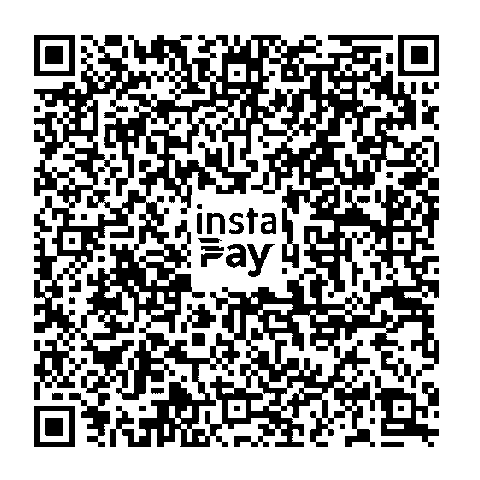
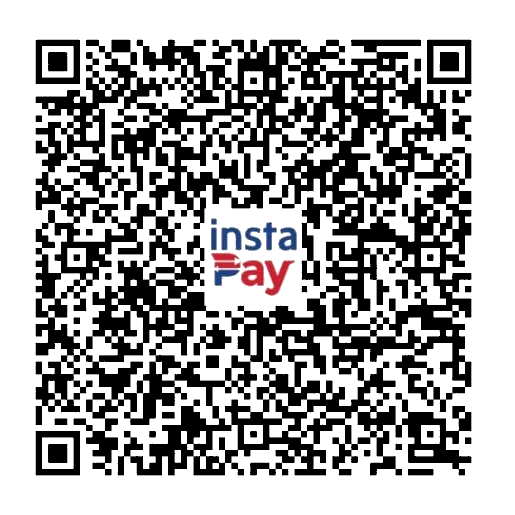
wip

Changed region(s): [[0.0625, 0.0625, 0.9375, 0.9375]]

diff --git a/ordered.html b/ordered.html
@@ -7,7 +7,7 @@
 <meta name="robots" content="noindex">
 <title>INODERECORDS · order placed</title>
 <link rel="icon" href="brand/favicon.svg" type="image/svg+xml">
-<link rel="stylesheet" href="style.css?v=1e19b137">
+<link rel="stylesheet" href="style.css?v=f234f824">
 <script>try{var o=JSON.parse(localStorage.getItem('inode.order')||'null');if(o&&o.ino&&!o.seen&&Date.now()-(+o.at||0)<6e5&&!(window.matchMedia&&matchMedia('(prefers-reduced-motion: reduce)').matches))document.documentElement.classList.add('tx');}catch(e){}</script>
 </head>
 <body>
@@ -29,7 +29,7 @@
     <p class="done__payhud">Pay exactly</p>
     <p class="done__total" data-total></p>
     <p class="done__until">We’re holding your records until <span data-until></span>, Philippine time. After that, unpaid records go back on the shelf.</p>
-    <div class="done__scan"><img class="done__qr" src="pay/gcash.png" alt="InstaPay QR code for INODERECORDS" width="240" height="240"></div>
+    <div class="done__scan"><img class="done__qr" src="pay/gcash.png?v=fe02b906" alt="InstaPay QR code for INODERECORDS" width="240" height="240"></div>
     <p class="done__paynote">InstaPay QR · works with GCash, Maya and bank apps<span data-pay></span></p>
     <p class="done__phone">On your phone? Screenshot this QR, then upload it from your app’s QR scanner.</p>
     <ol class="done__steps">

diff --git a/supabase/functions/order/mail.ts b/supabase/functions/order/mail.ts
@@ -113,7 +113,7 @@ export function buyerMail(o: Order) {
     `<tr>${td(`padding:0 0 14px;font-size:48px;line-height:1.08;font-weight:800;letter-spacing:1px;color:${PAPER};`, total, ' class="big"')}</tr>` +
     prose(`We&#8217;re holding your records until <b style="color:${PAPER};">${esc(o.when)}</b>, Philippine time. After that, unpaid records go back on the shelf.`, '0 0 28px') +
     wrap(grid(`<tr><td bgcolor="#ffffff" style="background:#ffffff;padding:14px;">` +
-      `<img src="${o.site}/pay/gcash.png" width="200" height="200" alt="InstaPay QR, also attached to this email" ` +
+      `<img src="${o.site}/pay/gcash.png?v=color" width="200" height="200" alt="InstaPay QR, also attached to this email" ` +
       `style="display:block;width:200px;height:200px;border:0;font-family:${F};font-size:12px;color:${INK};"></td></tr>`, false)) +
     hud('INSTAPAY QR &#183; GCASH, MAYA AND BANK APPS', '14px 0 4px') +
     prose('On your phone? The QR is attached to this email too. Save it, then upload it in your app&#8217;s QR scanner.', '0 0 36px', 12, DIM) +

diff --git a/index.html b/index.html
@@ -26,7 +26,7 @@
 <meta name="twitter:image" content="https://inoderecords.com/brand/og.png?v=983c6dc2">
 
 <link rel="icon" href="brand/favicon.svg" type="image/svg+xml">
-<link rel="stylesheet" href="style.css?v=1e19b137">
+<link rel="stylesheet" href="style.css?v=f234f824">
 </head>
 <body data-claim-url="https://dgfixbtziedvqzucxats.supabase.co" data-claim-key="sb_publishable_8c9aLOABXdfqwjv6c9bLAg_44bw0qZ2">
 

diff --git a/style.css b/style.css
@@ -612,7 +612,7 @@ a { color: inherit; }
 
 .boot__line { margin: 0; }
 
-.boot__line--on { color: var(--blue); }
+.boot__line--on { margin-top: .3em; padding: 0 .55em; background: var(--paper); color: var(--ink); font-weight: 700; }
 
 .boot__rule { width: min(42vw, 320px); height: 1px; background: var(--ghost); margin-top: 14px; }
 

diff --git a/supabase/functions/order/index.ts b/supabase/functions/order/index.ts
@@ -15,7 +15,7 @@ const reply = (body: unknown, status = 200) =>
 
 const SITE = 'https://inoderecords.com';
 const PAGE = 'https://www.facebook.com/inoderecords';
-const QR = `${SITE}/pay/gcash.png`;
+const QR = `${SITE}/pay/gcash.png?v=color`;
 const HOLD_MS = 24 * 3600 * 1000;
 
 Deno.serve(async (req) => {
